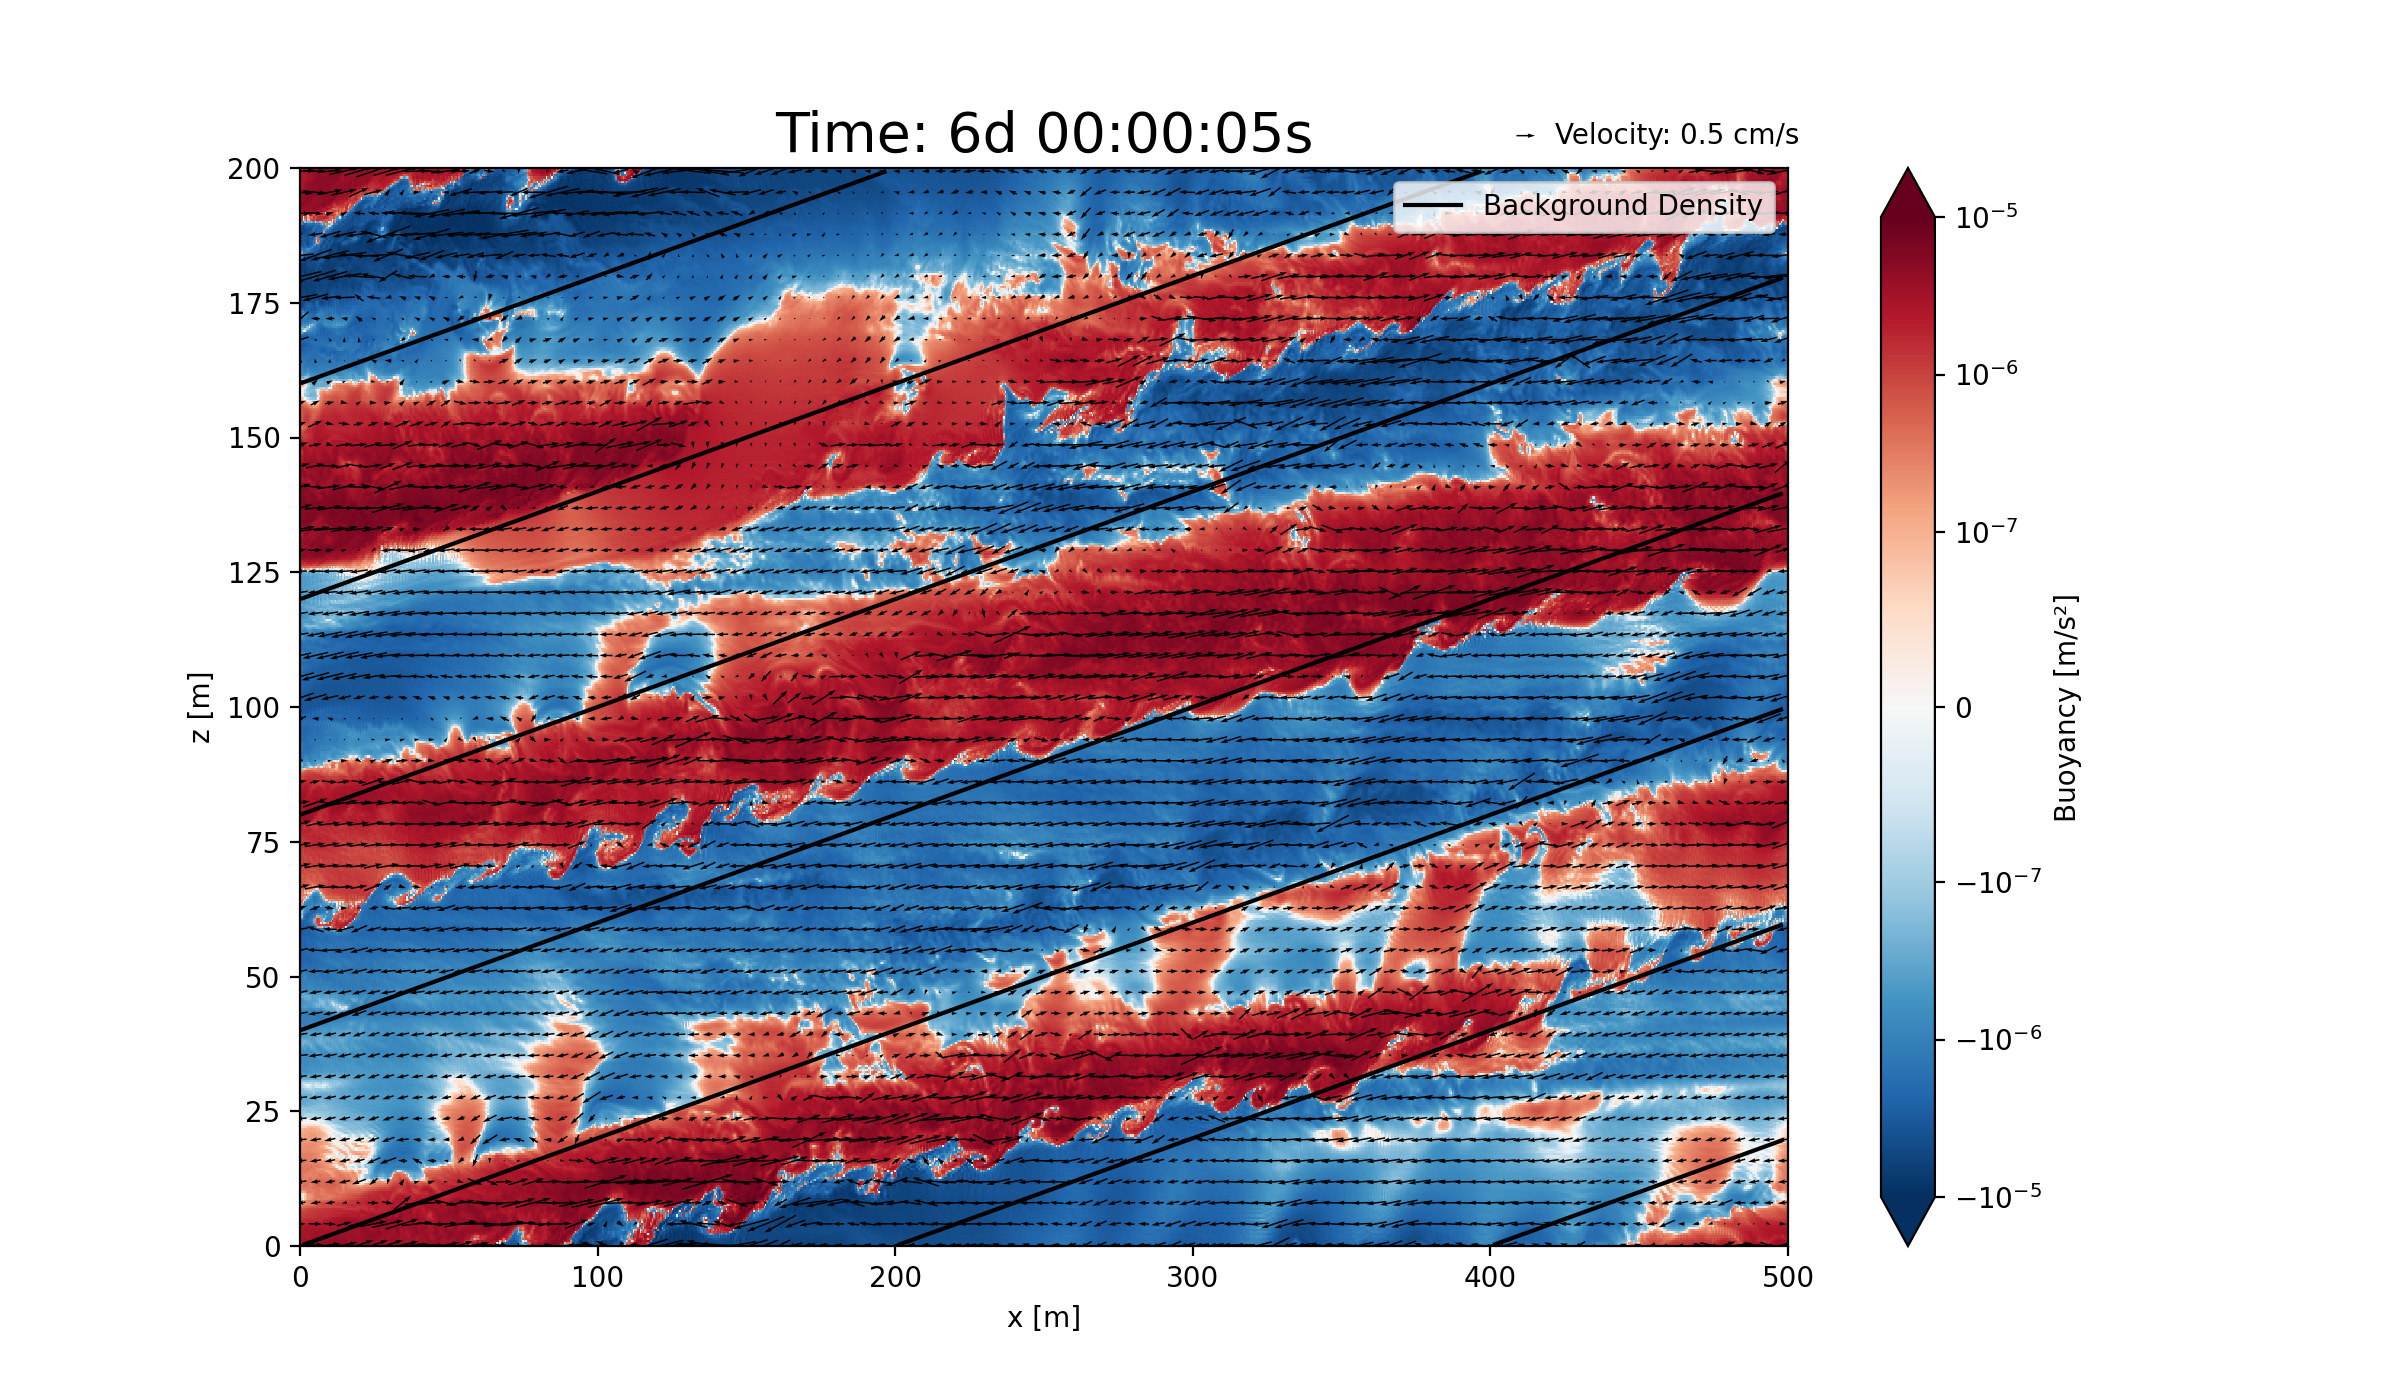
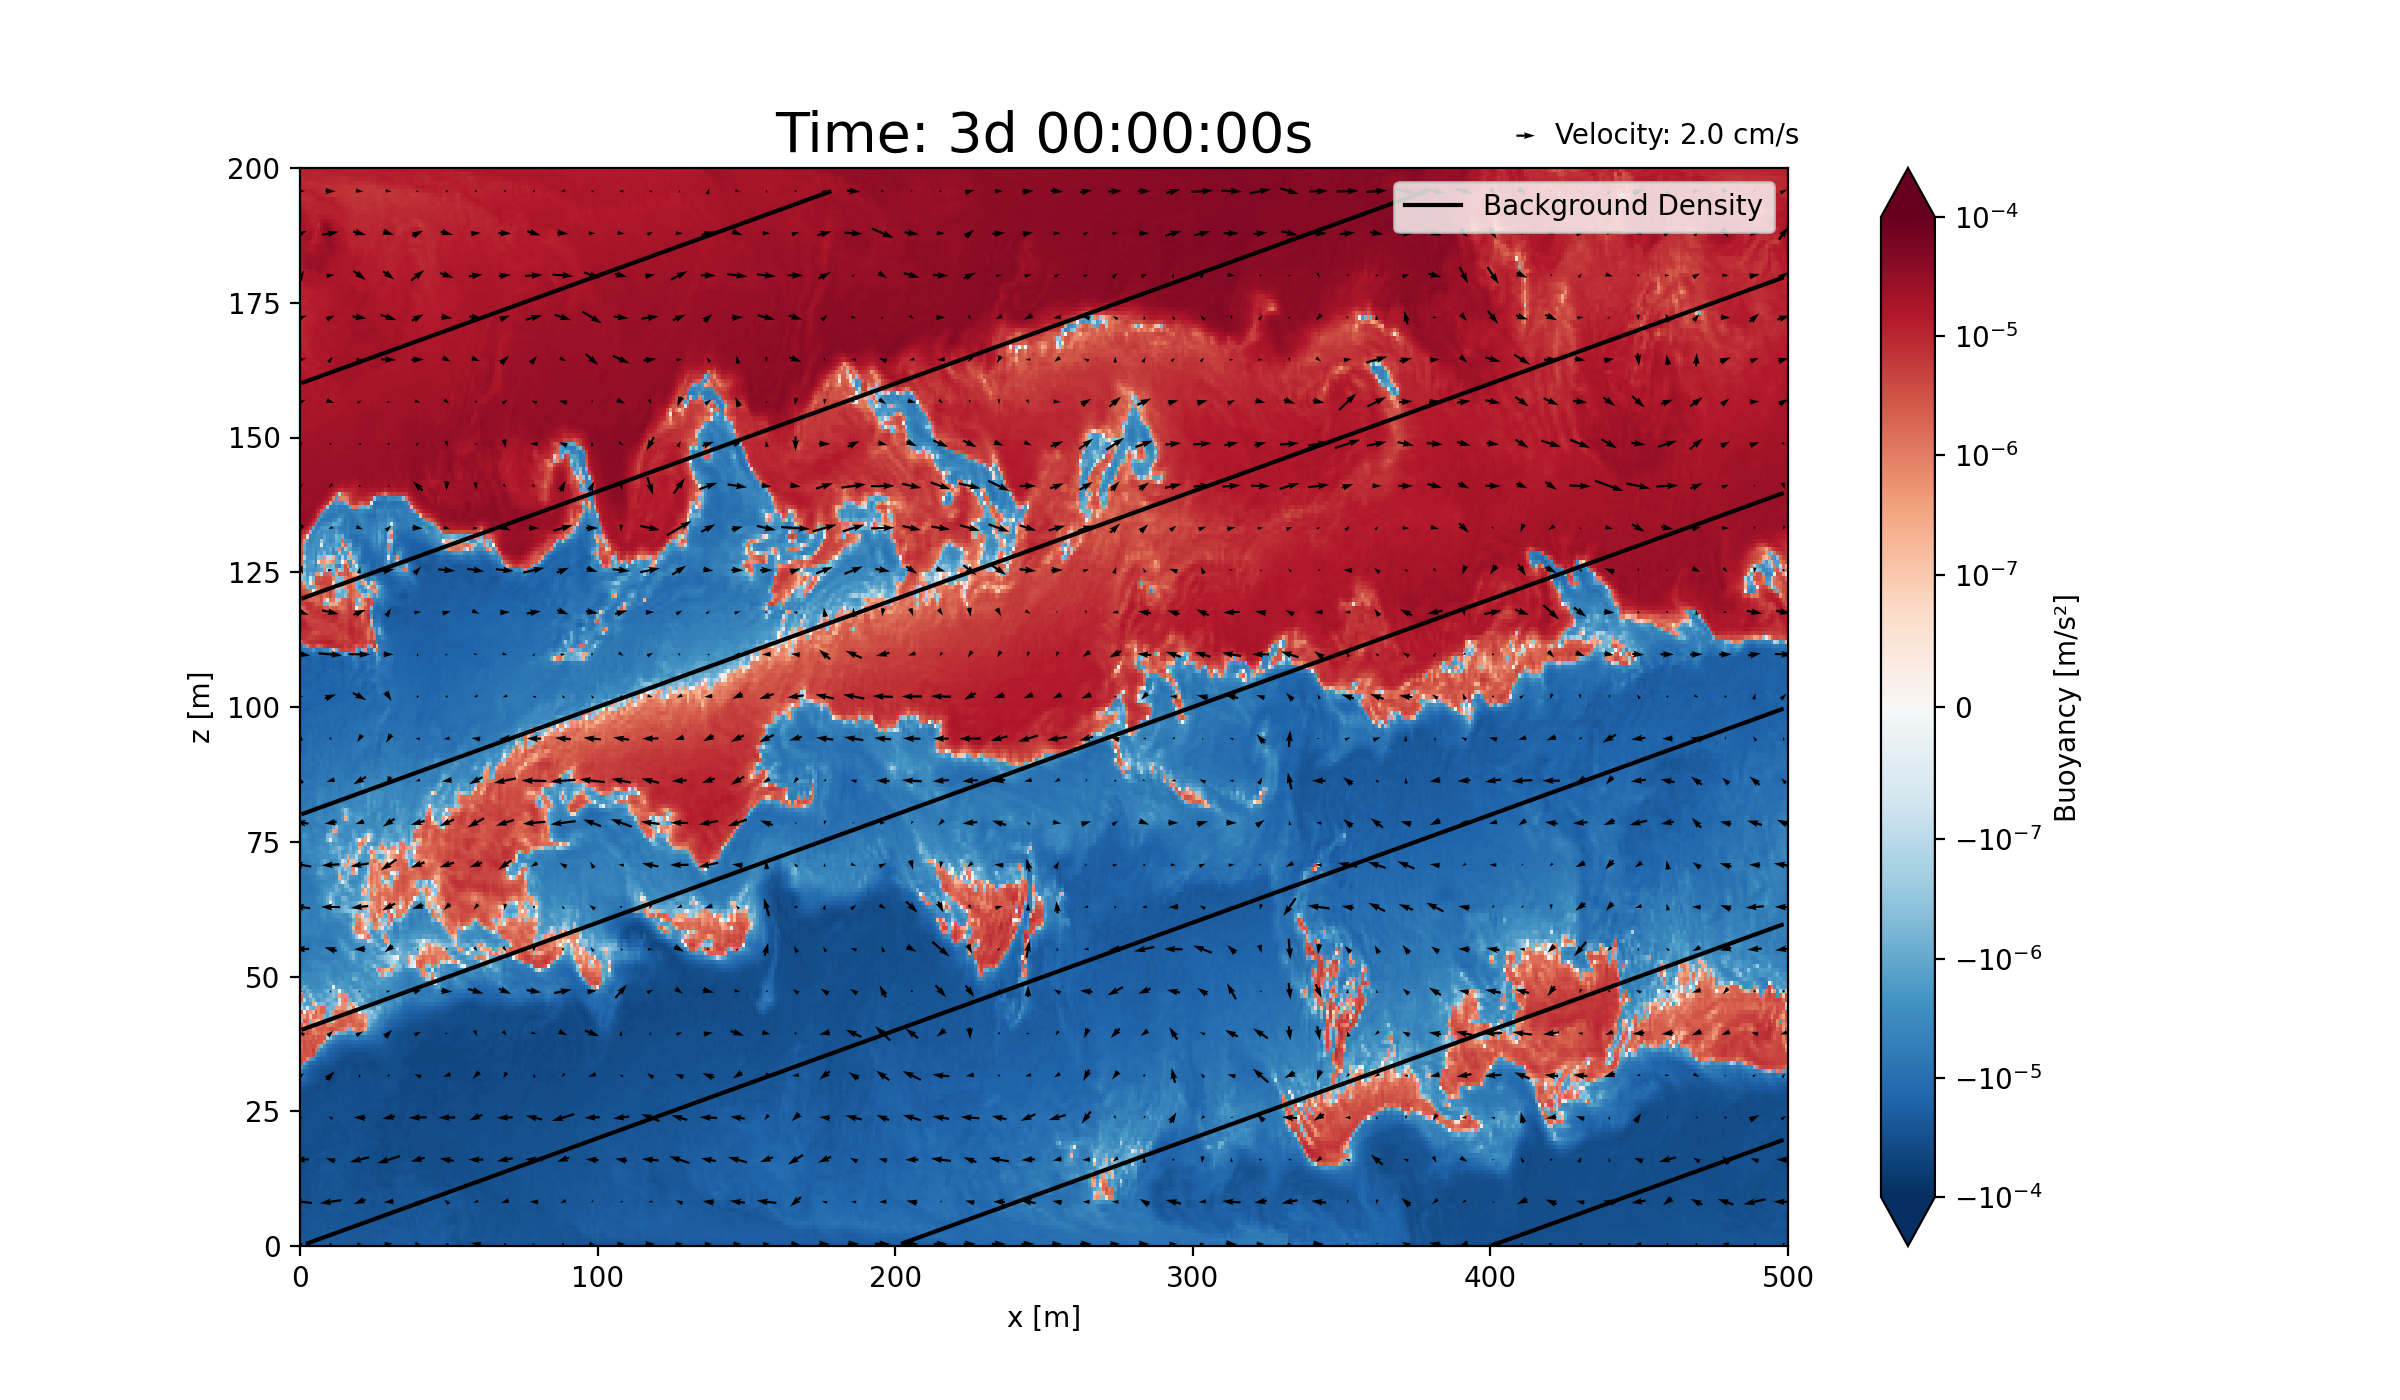
make SI examples non periodic in z

diff --git a/examples/nonhydro/symmetric_instability.py b/examples/nonhydro/symmetric_instability.py
@@ -111,7 +111,6 @@ import matplotlib.lines as mlines
 make_video  = True
 fps         = 30
 make_netcdf = False
-run_length  = np.timedelta64(6, 'D')     # simulation run length
 exp_name    = "symmetric_instability"
 thumbnail   = f"figures/{exp_name}.png"
 
@@ -122,7 +121,7 @@ Lx = 500          # 500 m in x
 Lz = 200          # 200 m in z
 
 # Numerical parameters
-resolution_factor = 9            # 2^9 = 512 grid points
+resolution_factor = 8            # 2^9 = 512 grid points
 Nx = 2**(resolution_factor + 1)  # Number of grid points in x
 Nz = 2**resolution_factor        # Number of grid points in z
 
@@ -144,15 +143,16 @@ class Plotter(nh.modules.animation.ModelPlotter):
         ax = fig.add_subplot(111)
         # plot the buoyancy field in log scale
         b.plot(ax=ax, norm=SymLogNorm(
-            linthresh=1e-7, linscale=1, vmax=1e-5, vmin=-1e-5))
+            linthresh=1e-7, linscale=1, vmax=1e-4, vmin=-1e-4),
+            cmap="RdBu_r", extend="both")
         # add a quiver plot to show the velocity field
         Q = z.plot.quiver('x', 'z', 'u', 'w', 
-                          scale=0.4, ax=fig.gca(), width=0.001, add_guide=False)
-        arrow = ax.quiverkey(Q, 0.83, 1.03, 0.005, label='Velocity: 0.5 cm/s', 
+                          scale=1.6, ax=fig.gca(), width=0.0015, add_guide=False)
+        arrow = ax.quiverkey(Q, 0.83, 1.03, 0.02, label='Velocity: 2.0 cm/s', 
                              labelpos='E', coordinates='axes')
         # add contours for the background density
         X, Z = np.meshgrid(z.x, z.z)
-        contours = ax.contour(X, Z, N2*Z-M2*X, colors='black', linestyles="solid")
+        contours = ax.contour(X, Z, N2*Z+M2*X, colors='black', linestyles="solid")
         line = mlines.Line2D([], [], color='black', label='Background Density')
         ax.legend(handles=[line], loc='upper right')
         time = nh.utils.humanize_number(int(t), "seconds")
@@ -160,15 +160,14 @@ class Plotter(nh.modules.animation.ModelPlotter):
 
 
 @nh.utils.skip_on_doc_build
-def perform_experiment(richardson_number, make_thumbnail=False):
+def perform_experiment(richardson_number, run_length, make_thumbnail=False):
     # ----------------------------------------------------------------
     #  Create the grid and model settings
     # ----------------------------------------------------------------
     N2 = richardson_number * M2**2 / f0**2
     grid = nh.grid.cartesian.Grid(N=(Nx, 1, Nz), L=(Lx, 1, Lz), 
-                                periodic_bounds=(True, True, True))
-    time_stepper = nh.time_steppers.RungeKutta(
-        method=nh.time_steppers.RKMethods.RKF45)
+                                periodic_bounds=(True, True, False))
+    time_stepper = nh.time_steppers.AdamBashforth(order=2, dt=3)
     mset = nh.ModelSettings(grid=grid, f0=f0, N2=N2, dsqr=1, time_stepper=time_stepper)
 
     # ----------------------------------------------------------------
@@ -208,7 +207,7 @@ def perform_experiment(richardson_number, make_thumbnail=False):
         mset.diagnostics.add_module(nh.modules.NetCDFWriter(
             get_variables = lambda mz: [*mz.z.field_list, mz.z.ekin],
             write_trigger = nh.ClockTrigger(time_interval=np.timedelta64(20, "m")),
-            filename=f"{exp_name}_ri_{richardson_number:.2f}.nc"))
+            filename=f"{exp_name}_ri_{richardson_number:.2f}".replace(".", "_")))
 
     mset.setup()
 
@@ -216,7 +215,7 @@ def perform_experiment(richardson_number, make_thumbnail=False):
     #  Create the initial condition
     # ----------------------------------------------------------------
     z = nh.State(mset)
-    z.v.arr += nh.utils.random_array(z.v.arr.shape) * 1e-6
+    z.v.arr += grid.create_random_array(seed=12345) * 1e-6
 
     # ----------------------------------------------------------------
     #  Run the model
@@ -232,6 +231,6 @@ def perform_experiment(richardson_number, make_thumbnail=False):
         fig.savefig(thumbnail, dpi=200)
 
 if __name__ == "__main__":
-    perform_experiment(0.25)
-    perform_experiment(0.50, make_thumbnail=True)
-    perform_experiment(0.75)
+    perform_experiment(0.25, run_length=np.timedelta64(2, "D"))
+    perform_experiment(0.50, run_length=np.timedelta64(3, "D"), make_thumbnail=True)
+    perform_experiment(0.75, run_length=np.timedelta64(4, "D"))
